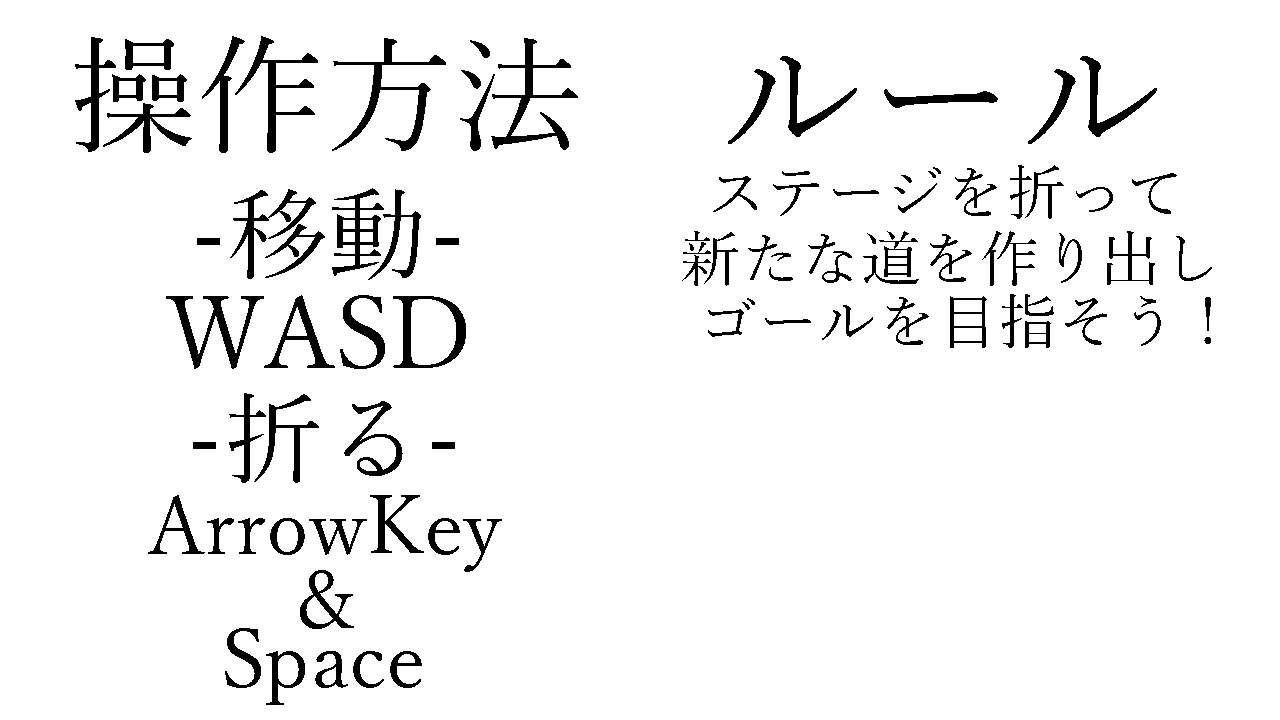
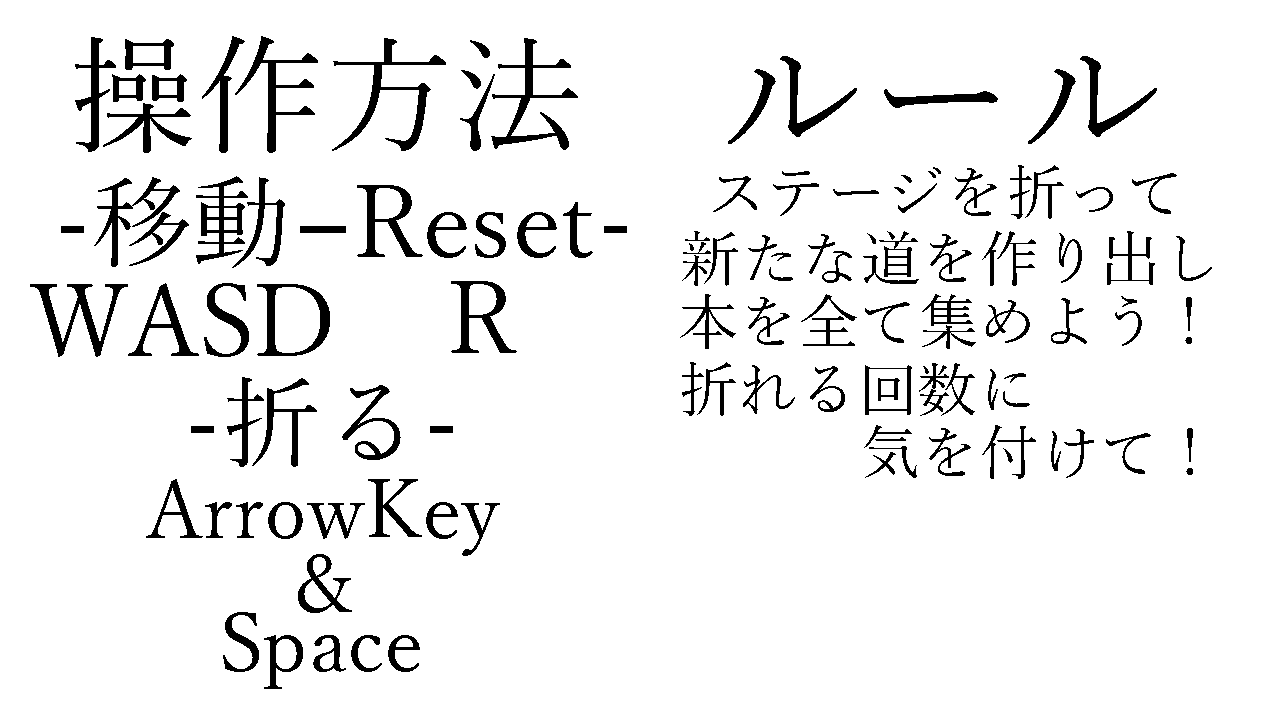
リソース修正

diff --git a/project/gamedata/scenes/GameTitleScene.cpp b/project/gamedata/scenes/GameTitleScene.cpp
@@ -13,6 +13,7 @@ void GameTitleScene::Initialize() {
 	pageR_ = textureManager_->Load("project/gamedata/resources/pageRight.png");
 	pageAll_ = textureManager_->Load("project/gamedata/resources/page.png");
 	start_ = textureManager_->Load("project/gamedata/resources/pressSpace.png");
+	start2_ = textureManager_->Load("project/gamedata/resources/pressSpace2.png");
 	title_ = textureManager_->Load("project/gamedata/resources/title.png");
 	tutorial_ = textureManager_->Load("project/gamedata/resources/tutorial.png");
 
@@ -59,6 +60,11 @@ void GameTitleScene::Initialize() {
 	sprite_[5]->SetTextureInitialSize();
 	sprite_[5]->SetAnchor(Vector2{ 0.5f,0.5f });
 
+	sprite_[6] = std::make_unique <CreateSprite>();
+	sprite_[6]->Initialize(Vector2{ 100.0f,100.0f }, start2_, false, false);
+	sprite_[6]->SetTextureInitialSize();
+	sprite_[6]->SetAnchor(Vector2{ 0.5f,0.5f });
+
 	count = 0;
 }
 
@@ -98,6 +104,18 @@ void GameTitleScene::Update() {
 		}
 	}
 	if (count == 1) {
+		if (changeAlpha_ == false) {
+			spriteAlpha_ -= 8;
+			if (spriteAlpha_ <= 0) {
+				changeAlpha_ = true;
+			}
+		}
+		if (changeAlpha_ == true) {
+			spriteAlpha_ += 8;
+			if (spriteAlpha_ >= 256) {
+				changeAlpha_ = false;
+			}
+		}
 	}
 	if (count == 2) {
 		count = 0;
@@ -117,6 +135,7 @@ void GameTitleScene::Draw() {
 			sprite_[4]->Draw(spriteTransform_, SpriteuvTransform_, spriteMaterial_);
 		}
 		if (count == 1) {
+			sprite_[6]->Draw(spriteTransform_, SpriteuvTransform_, Vector4{ 1.0f,1.0f,1.0f,spriteAlpha_ / 256.0f });
 			sprite_[5]->Draw(spriteTransform_, SpriteuvTransform_, spriteMaterial_);
 		}
 	}

diff --git a/project/gamedata/panel/back.cpp b/project/gamedata/panel/back.cpp
@@ -4,7 +4,7 @@ void Back::Initialize() {
 	textureManager_ = TextureManager::GetInstance();
 
 	//backModel_.reset(Model::CreateModelFromObj("project/gamedata/resources/back", "back.obj"));
-	backTexture_ = textureManager_->Load("project/gamedata/resources/paper.png");
+	backTexture_ = textureManager_->Load("project/gamedata/resources/page.png");
 
 	sprite_ = std::make_unique <CreateSprite>();
 	sprite_->Initialize(Vector2{ 100.0f,100.0f }, backTexture_, false, false);

diff --git a/project/gamedata/scenes/GameTitleScene.h b/project/gamedata/scenes/GameTitleScene.h
@@ -20,7 +20,7 @@ private:
 
 	TextureManager* textureManager_;
 
-	std::unique_ptr <CreateSprite> sprite_[6];
+	std::unique_ptr <CreateSprite> sprite_[7];
 	Transform spriteTransform_;
 	Transform spriteTransform2_;
 	Transform SpriteuvTransform_;
@@ -32,6 +32,7 @@ private:
 	uint32_t pageR_;
 	uint32_t pageAll_;
 	uint32_t start_;
+	uint32_t start2_;
 	uint32_t title_;
 	uint32_t tutorial_;
 

diff --git a/project/gamedata/player/Player.cpp b/project/gamedata/player/Player.cpp
@@ -141,6 +141,10 @@ void Player::Moves() {
 			ResetPlayer();
 		}
 	}
+
+	if (input_->TriggerKey(DIK_R)) {
+		ResetPlayer();
+	}
 }
 
 void Player::MoveNone() {
